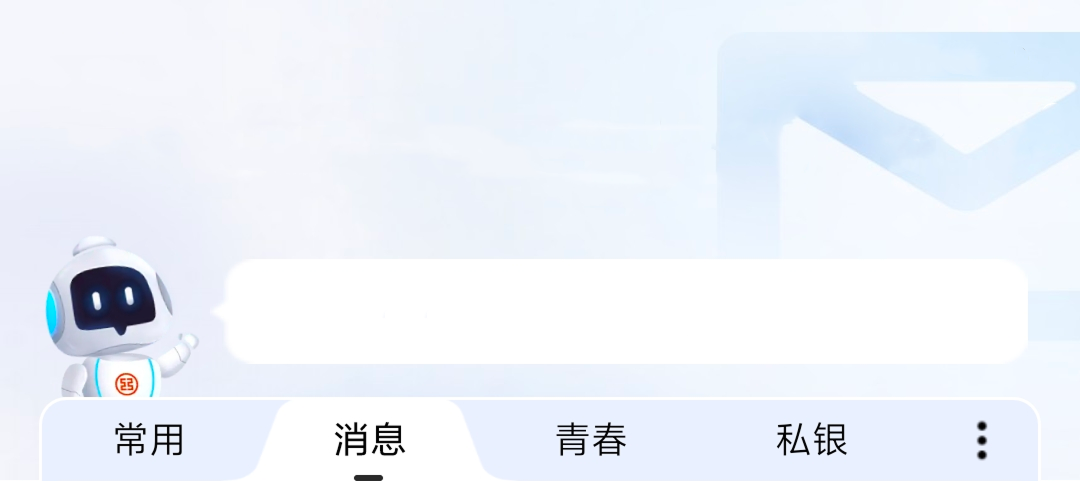
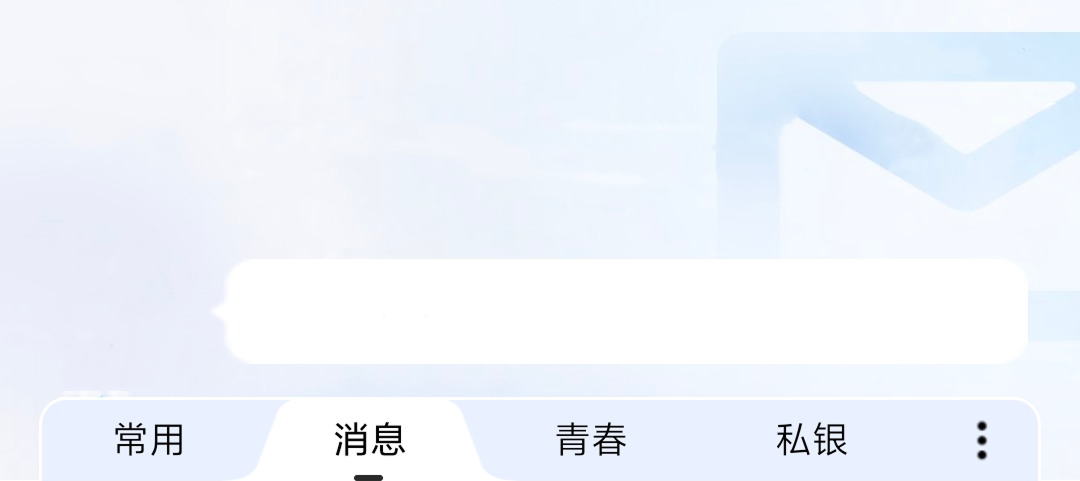
fix(*):首页机器人换成大象

Changed region(s): [[0.0306, 0.5301, 0.1833, 0.842], [0.0611, 0.499, 0.0917, 0.5301]]

diff --git a/cbc/lib/pages/tabs/home/component/home_content_widget1.dart b/cbc/lib/pages/tabs/home/component/home_content_widget1.dart
@@ -247,14 +247,7 @@ class _HomeContentWidget1State extends State<HomeContentWidget1> {
                       Positioned(
                           left: 15.w,
                           bottom: 30.w,
-                          child:
-                          // Container(
-                          //   width: 55.w,
-                          //   height: (55/172*143).w,
-                          //   color: Colors.blue,
-                          // )
-
-                          Image(
+                          child: Image(
                             image: 'ic_fhome_jqr'.png3x,
                             width: 55.w,
                             height: (55/172*143).w,

diff --git a/cbc/lib/pages/tabs/home/component/home_content_widget2.dart b/cbc/lib/pages/tabs/home/component/home_content_widget2.dart
@@ -31,6 +31,15 @@ class _HomeContentWidget2State extends State<HomeContentWidget2> {
             ).withOnTap(onTap: () {
               Get.toNamed(Routes.homeRobotPage);
             }),
+            Positioned(
+                left: 15.w,
+                bottom: 30.w,
+                child: Image(
+                  image: 'ic_fhome_jqr2'.png3x,
+                  width: 55.w,
+                  height: (55/172*143).w,
+                )
+            ),
             Positioned(bottom:0 ,child: Container(
               width: 1.sw - 30.w,
               height: 40.w,

diff --git a/cbc/lib/pages/tabs/home/component/home_content_widget3.dart b/cbc/lib/pages/tabs/home/component/home_content_widget3.dart
@@ -35,6 +35,15 @@ class _HomeContentWidget3State extends State<HomeContentWidget3> {
             ).withOnTap(onTap: () {
               Get.toNamed(Routes.homeRobotPage);
             }),
+            Positioned(
+                left: 15.w,
+                bottom: 30.w,
+                child: Image(
+                  image: 'ic_fhome_jqr2'.png3x,
+                  width: 55.w,
+                  height: (55/172*143).w,
+                )
+            ),
             Positioned(bottom:0 ,child: Container(
               width: 1.sw - 30.w,
               height: 40.w,

diff --git a/cbc/lib/pages/tabs/home/component/home_content_widget4.dart b/cbc/lib/pages/tabs/home/component/home_content_widget4.dart
@@ -36,6 +36,15 @@ class _HomeContentWidget4State extends State<HomeContentWidget4> {
             ).withOnTap(onTap: () {
               Get.toNamed(Routes.homeRobotPage);
             }),
+            Positioned(
+                left: 15.w,
+                bottom: 30.w,
+                child: Image(
+                  image: 'ic_fhome_jqr4'.png3x,
+                  width: 55.w,
+                  height: (55/172*143).w,
+                )
+            ),
             Positioned(bottom:0 ,child: Container(
               width: 1.sw - 30.w,
               height: 40.w,
